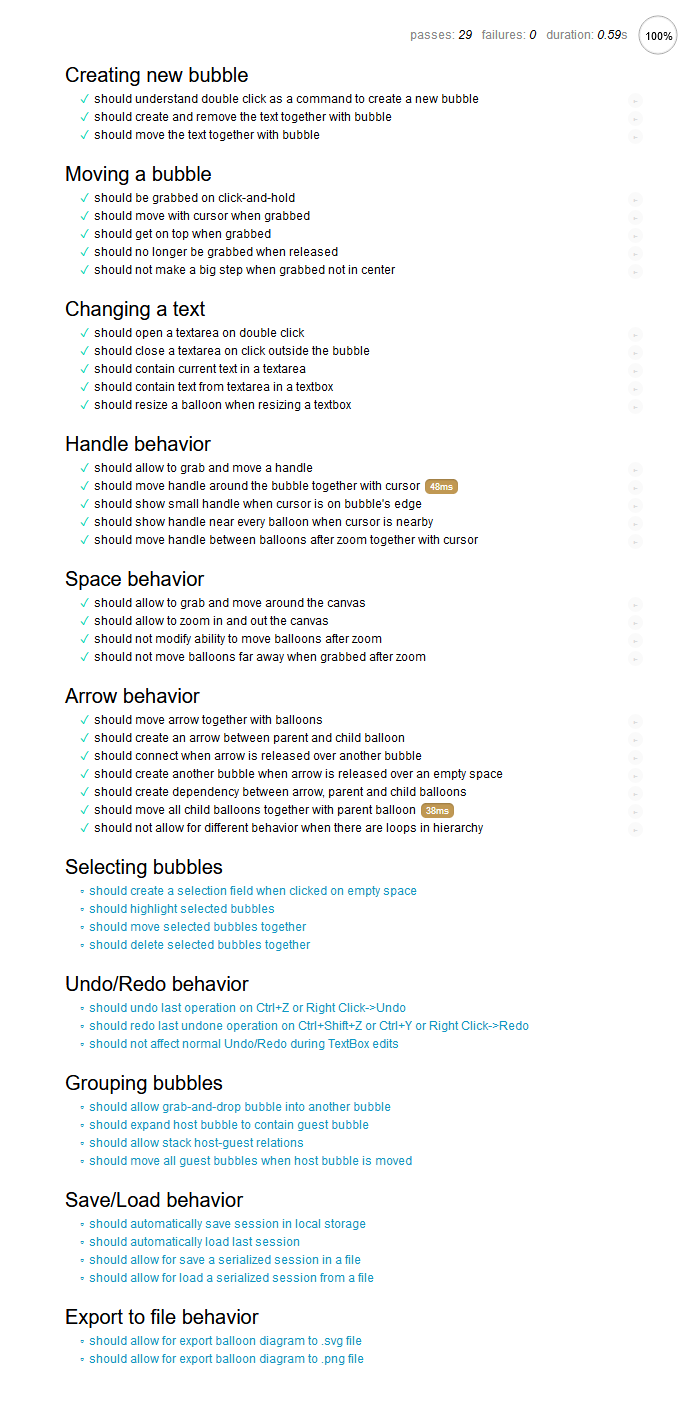
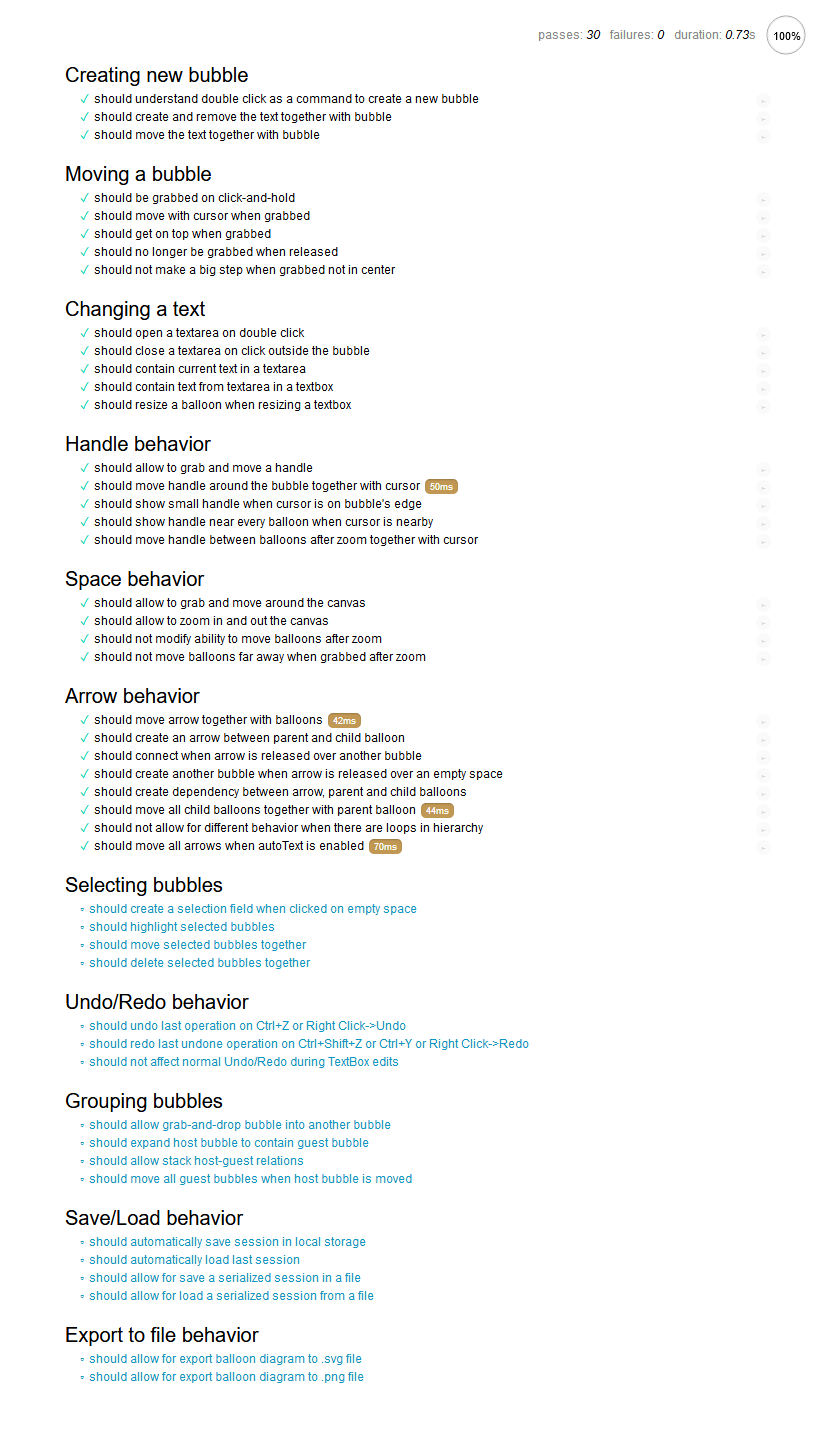
Fixed autoText test

diff --git a/scripts/textbox.js b/scripts/textbox.js
@@ -51,7 +51,7 @@ function closeCurrentTextarea() {
     currentTextareaBalloon.drop();
     if (currentTextareaBalloon.fO != null) {
         var s = $('#tarea')[0].innerHTML;
-        currentTextareaBalloon.fO.innerHTML = `<div>${s}</div>`;
+        currentTextareaBalloon.fO.innerHTML = `<div class="inner-text">${s}</div>`;
         currentTextareaBalloon = null;
     }
     currentTextareaBalloon = null;

diff --git a/scripts/handle.js b/scripts/handle.js
@@ -51,6 +51,9 @@
         this.arrow.hide();
         var [, , element] = Space.getElement(e);
         var b = null;
+
+        console.log(element);
+
         if (element.id === 'body') {
             b = this.createBalloon(x, y);
         }
